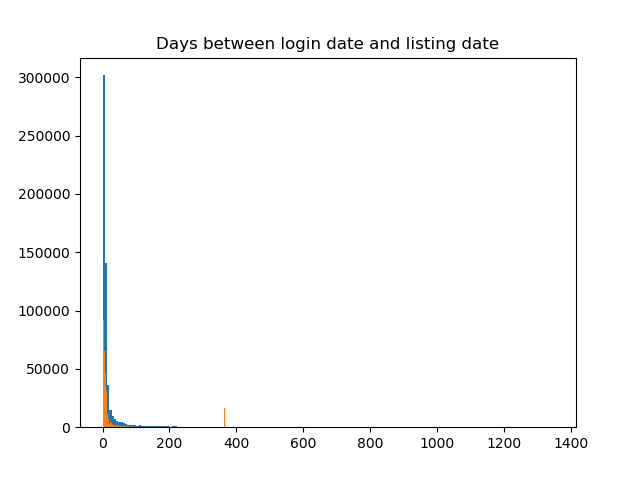
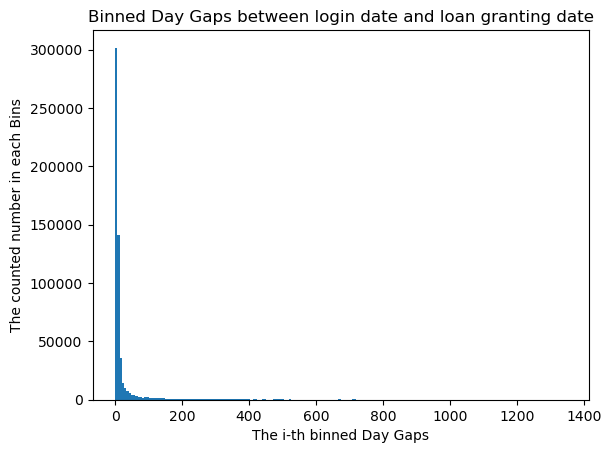
Version 6.02 adding the detailed message in each png files

Changed region(s): [[0.0, 0.0, 0.9951, 0.989]]

diff --git a/README.md b/README.md
@@ -190,12 +190,12 @@ When a customer's default probability is 11% and the good to bad ratio is 8 (89%
 
 
 # Section 6 Evaluating the Model
-The KS ：0.33
+The KS 
  
 
 ![avatar](./graphics/KS.png)  
 
-The AUC: 0.72
+The AUC
  
 
 ![avatar](./graphics/AUC.png)  
@@ -213,17 +213,31 @@ B. Pay attention to the changes of these important features in each customer thr
 # Section 9 Appendix  
 The following image shows the results of the code running on Jupyter Notebook
 
+A. the 1st image:
+
 ![avatar](./graphics/Days_between_login_date_and_listing_date.png)
+
+B. the 2nd image:
 
 ![avatar](./graphics/IV-SORTED.png)
 
+C. the 3rd image:
+
 ![avatar](./graphics/KS.png)
+
+D. the 4th image:
 
 ![avatar](./graphics/Largest_Percentage_of_Single_Value_in_Each_feature.png)
 
+E. the 5th image:
+
 ![avatar](./graphics/log_of_badRate_ratio_in_large_varaibles.png)
 
+F. the 6th image:
+
 ![avatar](./graphics/Score-Distribution.png)
+
+G. the 7th image:
 
 ![avatar](./graphics/AUC.png)
 
